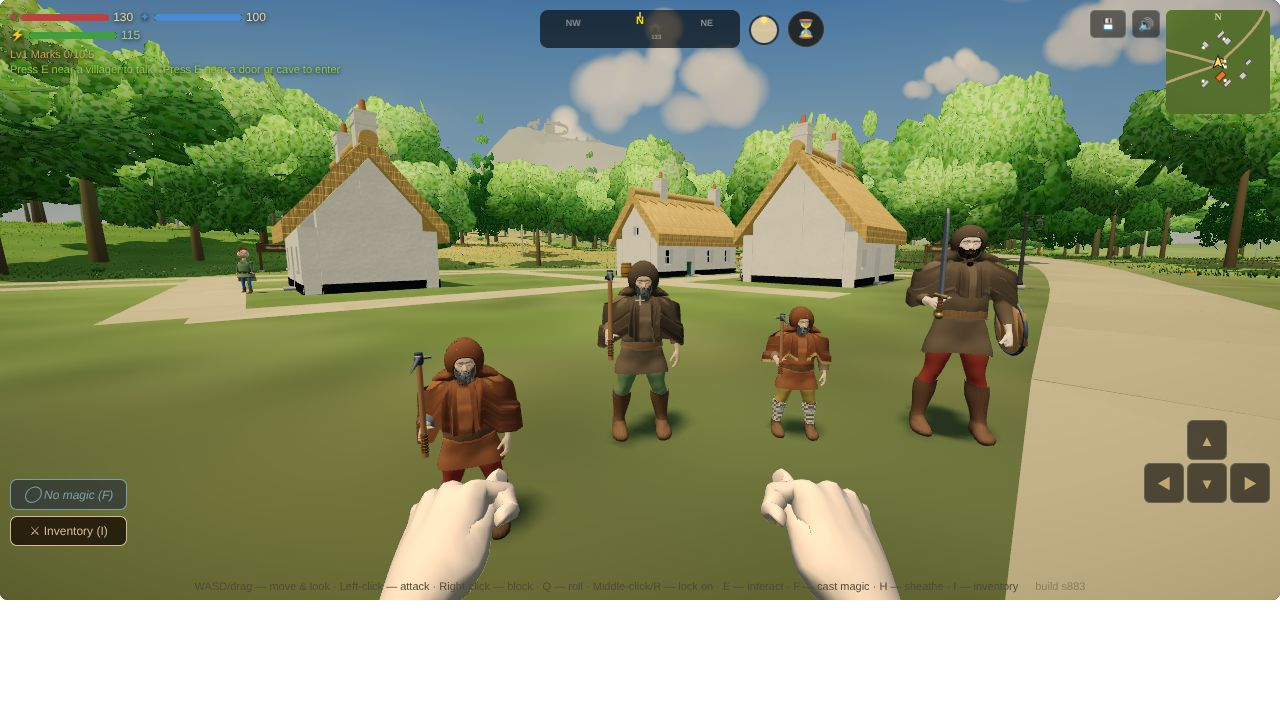
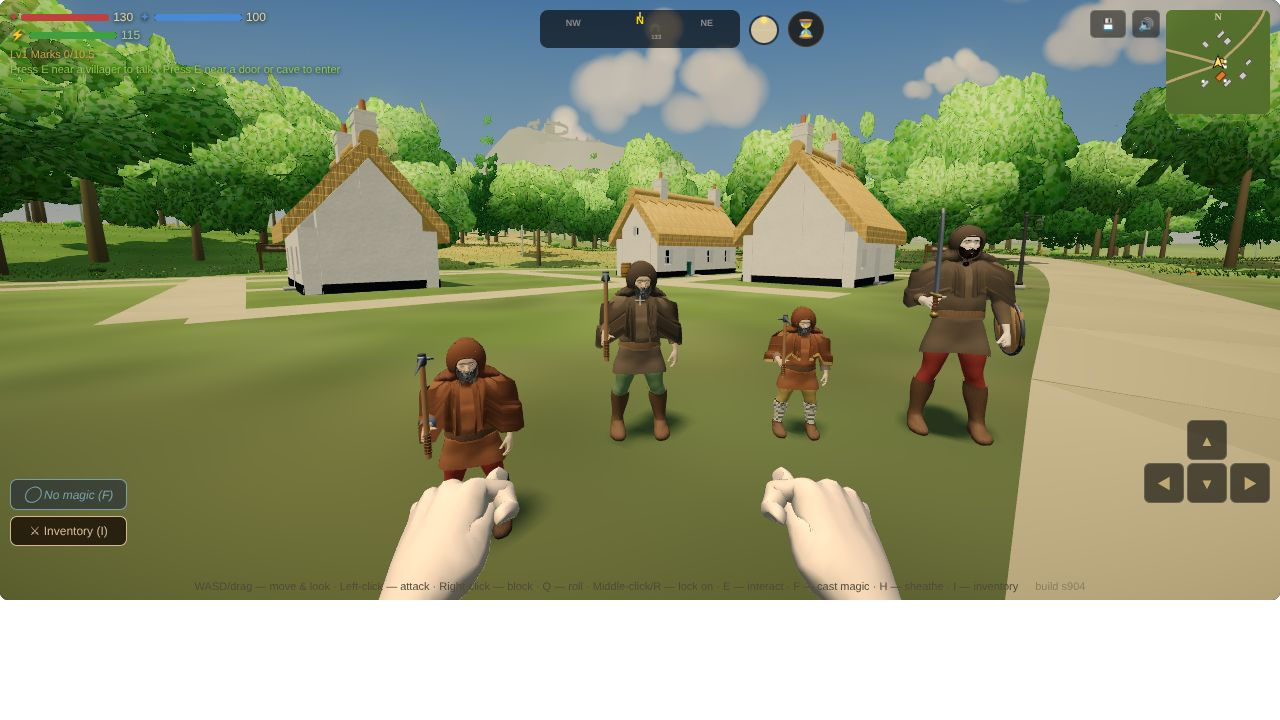
Bodies: Session 1415 — the weekly run's goblins, ogre and weapons; a foe's blow shown on the builder's body (hbRepose)
Claude-Session: https://claude.ai/code/session_01EhhYFShFwGcQcgZKoF12D1

diff --git a/js/42-zone-enemies.js b/js/42-zone-enemies.js
@@ -706,6 +706,7 @@ function attackPose(e,inDungeon){
   const w=e._wind||0;const st=inDungeon?(e.atkAnim>0?e.atkAnim/.35:0):(e._lunge!=null?Math.max(0,e._lunge)/.3:0);const s=Math.sin(st*Math.PI);
   const arm=enemyArm(e);const isTail=e.limbs&&!Array.isArray(e.limbs)&&arm===e.limbs.tail;
   if(arm&&arm.rotation){if(isTail){arm.rotation.x=(e._tailBase!=null?e._tailBase:(e._tailBase=arm.rotation.x))-w*.45+s*1.1;}else{const wa=e.limbs&&e.limbs.person&&e.limbs.person.wraithArm;arm.rotation.x=wa!=null?wa-w*1.0+s*1.3:w*1.4-s*1.3;}} /* S555 — a wraith's blow starts from its reaching arm (tickPeople): the claw goes up over its head through the wind and rakes down */
+  if(arm&&!isTail&&e.limbs&&e.limbs.person&&e.limbs.person.hb)hbRepose(e.limbs.person); /* S1415 — the builder's body takes the blow's pose (32-people.js) */
   if(e.mesh&&(!arm||isTail)&&!(e.limbs&&e.limbs.wolf)){const lean=-w*.22+s*.18;if(inDungeon)e.mesh.rotateX(lean);else e.mesh.rotation.x=lean;}
   if(e.mesh&&e.mesh._hover){const t=performance.now()*.003;e.mesh.position.y=(e.baseY||e.mesh.position.y-Math.sin(t-.05)*.08)+Math.sin(t)*.08;e.mesh.children.forEach(c=>{if(c._mote!=null){c.position.x=Math.cos(t+c._mote)*.3*(e.mesh.scale.x||1);c.position.z=Math.sin(t+c._mote)*.3;}});}
 }

diff --git a/js/32-people.js b/js/32-people.js
@@ -1541,6 +1541,9 @@ function hbHold(rig){const H=rig.hb,top=rig.foe?rig.root.parent:rig.root;top.upd
   for(const h of H.held){const o=h.o;if(o.parent!==H.root&&o.parent!==h.par)continue;if(o.parent!==H.root)H.root.add(o);
     _hbm.multiplyMatrices(_hbm2,h.par.matrixWorld).multiply(h.m0);_hbm.decompose(o.position,o.quaternion,o.scale);
     if(h.f&&h.f.length){const v=_hbv.set(0,0,0);for(const b of h.f)v.add(_hbv2.setFromMatrixPosition(b.matrixWorld));o.position.copy(v.multiplyScalar(1/h.f.length).applyMatrix4(_hbm2));}}}
+// S1415 — a blow's pose (attackPose, 42-zone-enemies.js) is set on the driver after tickPeople has copied it to the builder's body,
+// so the body and what it holds showed no wind-up and no strike: copied again here, for a foe whose body is near enough to pose
+function hbRepose(rig){if(rig&&rig.hb&&rig.hb.L<2&&!rig.hb.cold){hbPose(rig);if(rig.hb.held.length)hbHold(rig);}}
 function hbGive(rig){const H=rig.hb;for(const h of H.held)if(h.o.parent===H.root){h.par.add(h.o);h.m0.decompose(h.o.position,h.o.quaternion,h.o.scale);}}
 function hbPose(rig){const H=rig.hb,B=rig.B,map=H.map;
   for(let i=0;i<map.length;i++){const [j,b]=map[i];

diff --git a/docs/backlog.md b/docs/backlog.md
@@ -420,7 +420,7 @@ The blocky look is inherited, not chosen: ~790 `BoxGeometry` and ~520 cylinders/
 - ~~**The mantle's pull has no pose in either view**~~ — **done, Sessions 1401 and 1402**: in third person the hands are planted on the ledge, the body bows over it, the right knee comes up and it stands (`tpMantle`, `tpHBMantle`); in first person both fists come down onto it and sink as you rise, and a held weapon drops from the view (`vmMantle`, `FIST_POSE.press`); `tests/mantle` (the systems builder's ask in S1385's post).
 - ~~**s896 — a private home's prompt says *Press E near the keeper to talk*, at night too** (critic 2026-10-25; for the systems builder, the interior prompt in `updateHUD`, `js/62-actions.js`): in Donnacha's House, Cill Beag (`g_cill_beag_5`, a Gatelands village cottage on the new look), the HUD names the resident a keeper at 22h, and at 1h it still offers talk while the resident should be asleep in the box bed. Steps: go into any village home at 22h or 1h and read the prompt line.~~ — done, Session 1407 (the HUD line names the resident, and *is asleep · Press E to wake* while they sleep)
 - ~~**s896 — the Marsh Hag's cloak stands off her side as a flat panel**~~ — **done, Session 1408**: the builder threw any cloak back off the right shoulder when the right fist held a staff, so it hung from the left alone; with a staff it now starts just forward of the right side and hangs round her, the hand out in front of its edge (`buildCloak`, people.js; `docs/prototypes/f4/f4-hags-near.jpg`). Was: (critic 2026-10-25; for the bodies builder, `HB_FOE_DRESS` in `js/32-people.js`, S1389): in S1389's own `docs/prototypes/f4/f4-hags.jpg` the peat-brown cloak hangs from her left shoulder to the ground as a dark board beside her, not around her; from the side (`f4-hags-side.jpg`) it is a slab behind her. Steps: the `f4hags` suite's picture, or a hag at 3 m on the new look.
-- **The weekly run of every suite, 25 Oct 2026: ten suites red twice on main at c23f4b4 (s897)** (the producer; `check` run 40184195006). Each to the builder that owns it by the code map, to fix in their next run; nothing is reverted for it. Systems builder: `bodies` (`pushFromBodies`, `90-main.js`), `dunwarm` (a gate's foes' prewarm), `sightline` (`intSightLine`, F2b). Bodies builder: `goblins`, `ogre`, `weapons` (the foes on the people's body and their kit). Look builder: ~~`kitkeep`~~ — done, Session 1410 (the coaching inn's vertex hash, stale since S1396's door; re-recorded from `pieces.js`); ~~`intdoors`~~ — done, Session 1412 (the suite swung the coaching inn's 0.76 m leaves as the old 1.94; a door now records its leaf); ~~`boxspots`~~ — done, Session 1413 (S1394's quench tub was still in the way round the counter in Ashenmoor's shallow forge; its cap is now 0.5 from the street wall). QA: `foewarm` (already open, blocker of 24 Oct; the game's, narrowed and refiled for the systems builder below, Session 1411). Flaky, passed on the retry: `kitgods`, `airstep`, `jobseed`, `gatedraws`, `sleeperreach` (QA's).
+- **The weekly run of every suite, 25 Oct 2026: ten suites red twice on main at c23f4b4 (s897)** (the producer; `check` run 40184195006). Each to the builder that owns it by the code map, to fix in their next run; nothing is reverted for it. Systems builder: `bodies` (`pushFromBodies`, `90-main.js`), `dunwarm` (a gate's foes' prewarm), `sightline` (`intSightLine`, F2b). Bodies builder: ~~`goblins`, `ogre`, `weapons`~~ — done, Session 1415 (the first two read the gear kit's hammer and club after S1379 and S1386 put the weapon kit's mattock and greatclub in the fist; `weapons`' wind-up was the game's: on the new look the builder's body never took `attackPose`'s blow, now `hbRepose`). Look builder: ~~`kitkeep`~~ — done, Session 1410 (the coaching inn's vertex hash, stale since S1396's door; re-recorded from `pieces.js`); ~~`intdoors`~~ — done, Session 1412 (the suite swung the coaching inn's 0.76 m leaves as the old 1.94; a door now records its leaf); ~~`boxspots`~~ — done, Session 1413 (S1394's quench tub was still in the way round the counter in Ashenmoor's shallow forge; its cap is now 0.5 from the street wall). QA: `foewarm` (already open, blocker of 24 Oct; the game's, narrowed and refiled for the systems builder below, Session 1411). Flaky, passed on the retry: `kitgods`, `airstep`, `jobseed`, `gatedraws`, `sleeperreach` (QA's).
 
 - **s901 — on the new look the first Goblin or Skeleton seen compiles its sword's program on that frame** (QA, Session 1411, for the systems builder, `prewarmFoes` in `js/42-zone-enemies.js`; the goblin's and skeleton's kit is the bodies builder's, `HC_KINDS` in `34-creatures.js`): `tests/foewarm` red on main at ed26b39 (s901), as in the weekly run of 25 Oct and on S1374's branch at 819f6e4. Settled in Dunmore at noon, nothing compiling over four 1.5 s windows nor over three control draws of four frames, then every one of the 33 kinds raised and drawn: 2 shaders compiled and 1 program added (179→180). The one new program belongs to a `MeshStandardMaterial` under the creature kit's group named `sword` (`vendor/creatures.builder.js`, gear `kind:'sword'`, iron with `flat:true`); its key differs from every warmed one by flat shading. The Goblin and the Skeleton carry it (`HC_KINDS`, `person:true`). The prewarm's S1299 loop builds kit bodies only for `WOLF_RIGS`, so the person-plan kit bodies (Goblin, Skeleton) are never built behind the fade; everything else on them happens to share a warmed key, the flat iron does not. Expected: 0 compiled, 0 added. The fix is the S1299 loop over the person-plan kinds too (the rigs `buildZoneEnemy` put in `tmp`, whatever set holds them). The test is right and stays as it is.
 

diff --git a/docs/devlog/1415.md b/docs/devlog/1415.md
@@ -1,0 +1,32 @@
+## v80 — Session 1415 — the weekly run's three bodies reds; a foe's blow on the builder's body
+Two things first. PR #705 (Sessions 1408–1409, the hag's cloak and the Ash Wight) had gone into conflict with main on the
+backlog's section I, where the systems builder struck the home's prompt beside my hag line. It is carried onto this run's
+branch with the conflict resolved (both strikes kept); #705 is closed for this one.
+
+Then section I: the weekly run of 25 Oct left `goblins`, `ogre` and `weapons` red twice on main, filed for this lane.
+Two were the suites' and one was the game's.
+
+- `goblins` read the kobold's `gear` as the gear kit's `'hammer'`. Since Session 1379 the kobold holds the weapon kit's mattock,
+  so its `gear` is `'kit'` and `wpn` is `'mattock'`; the check now says so.
+- `ogre` read the ogre's `gear` as `'club'` and measured "the club above the fist" from the baked gear bone's vertices. Since
+  Session 1386 it holds the kit's greatclub, so the bone carries nothing baked and both reaches read the bare fist (0.639 each).
+  The check now takes `gear 'kit'`, `wpn 'greatclub'`, and compares the held weapons' own lengths (the greatclub against the mattock).
+  `weapons` read the kobold as empty-handed for the same reason.
+- `weapons`' last check, *in play the weapon moves with the arm through the wind-up*, moved 0.007 m. This was a real fault.
+  On the new look a human foe's visible body is the builder's 163 bones, which `tickPeople` poses from the 17-bone driver.
+  `attackPose` (42-zone-enemies.js) sets the wind-up and the strike on the driver after that copy, and the driver is hidden.
+  So the visible body and what it holds never wound up or struck: a bandit's tell did not show. `hbRepose(rig)` (32-people.js)
+  copies the driver's pose to the builder's body again, along with what it holds, and `attackPose` calls it for a foe whose
+  body is near enough to pose (levels 0 and 1). That is one line in the systems builder's file, as a hook into the body.
+  This covers the world, the sea's foes and the dungeon, which all go through `attackPose`.
+
+### Verified (headless Chromium)
+- A probe in the game's order (`tickPeople`, then `attackPose`, for 20 frames at rest and then 20 winding): a Highwayman's held
+  sword on the builder's body moved 0.007 m before and 0.53 m after.
+- `goblins`, `ogre` and `weapons` 1/1 (wind-up 0.446 m); `f4foes` and `f4kobolds` 1/1; parsecheck clean; the people bundle matches.
+
+### Needs eyes
+- The strike now shows on the builder's body. Whether it reads in time from 3 m, with the wind-up at 1.4 rad of shoulder, is a
+  playtest call.
+- The creature kit's wolves (`hcPose`) may have the same order. Their lunge leans the whole group, so it shows, but a leg pose set
+  after `tickCreatures` would not. Not checked this session.
